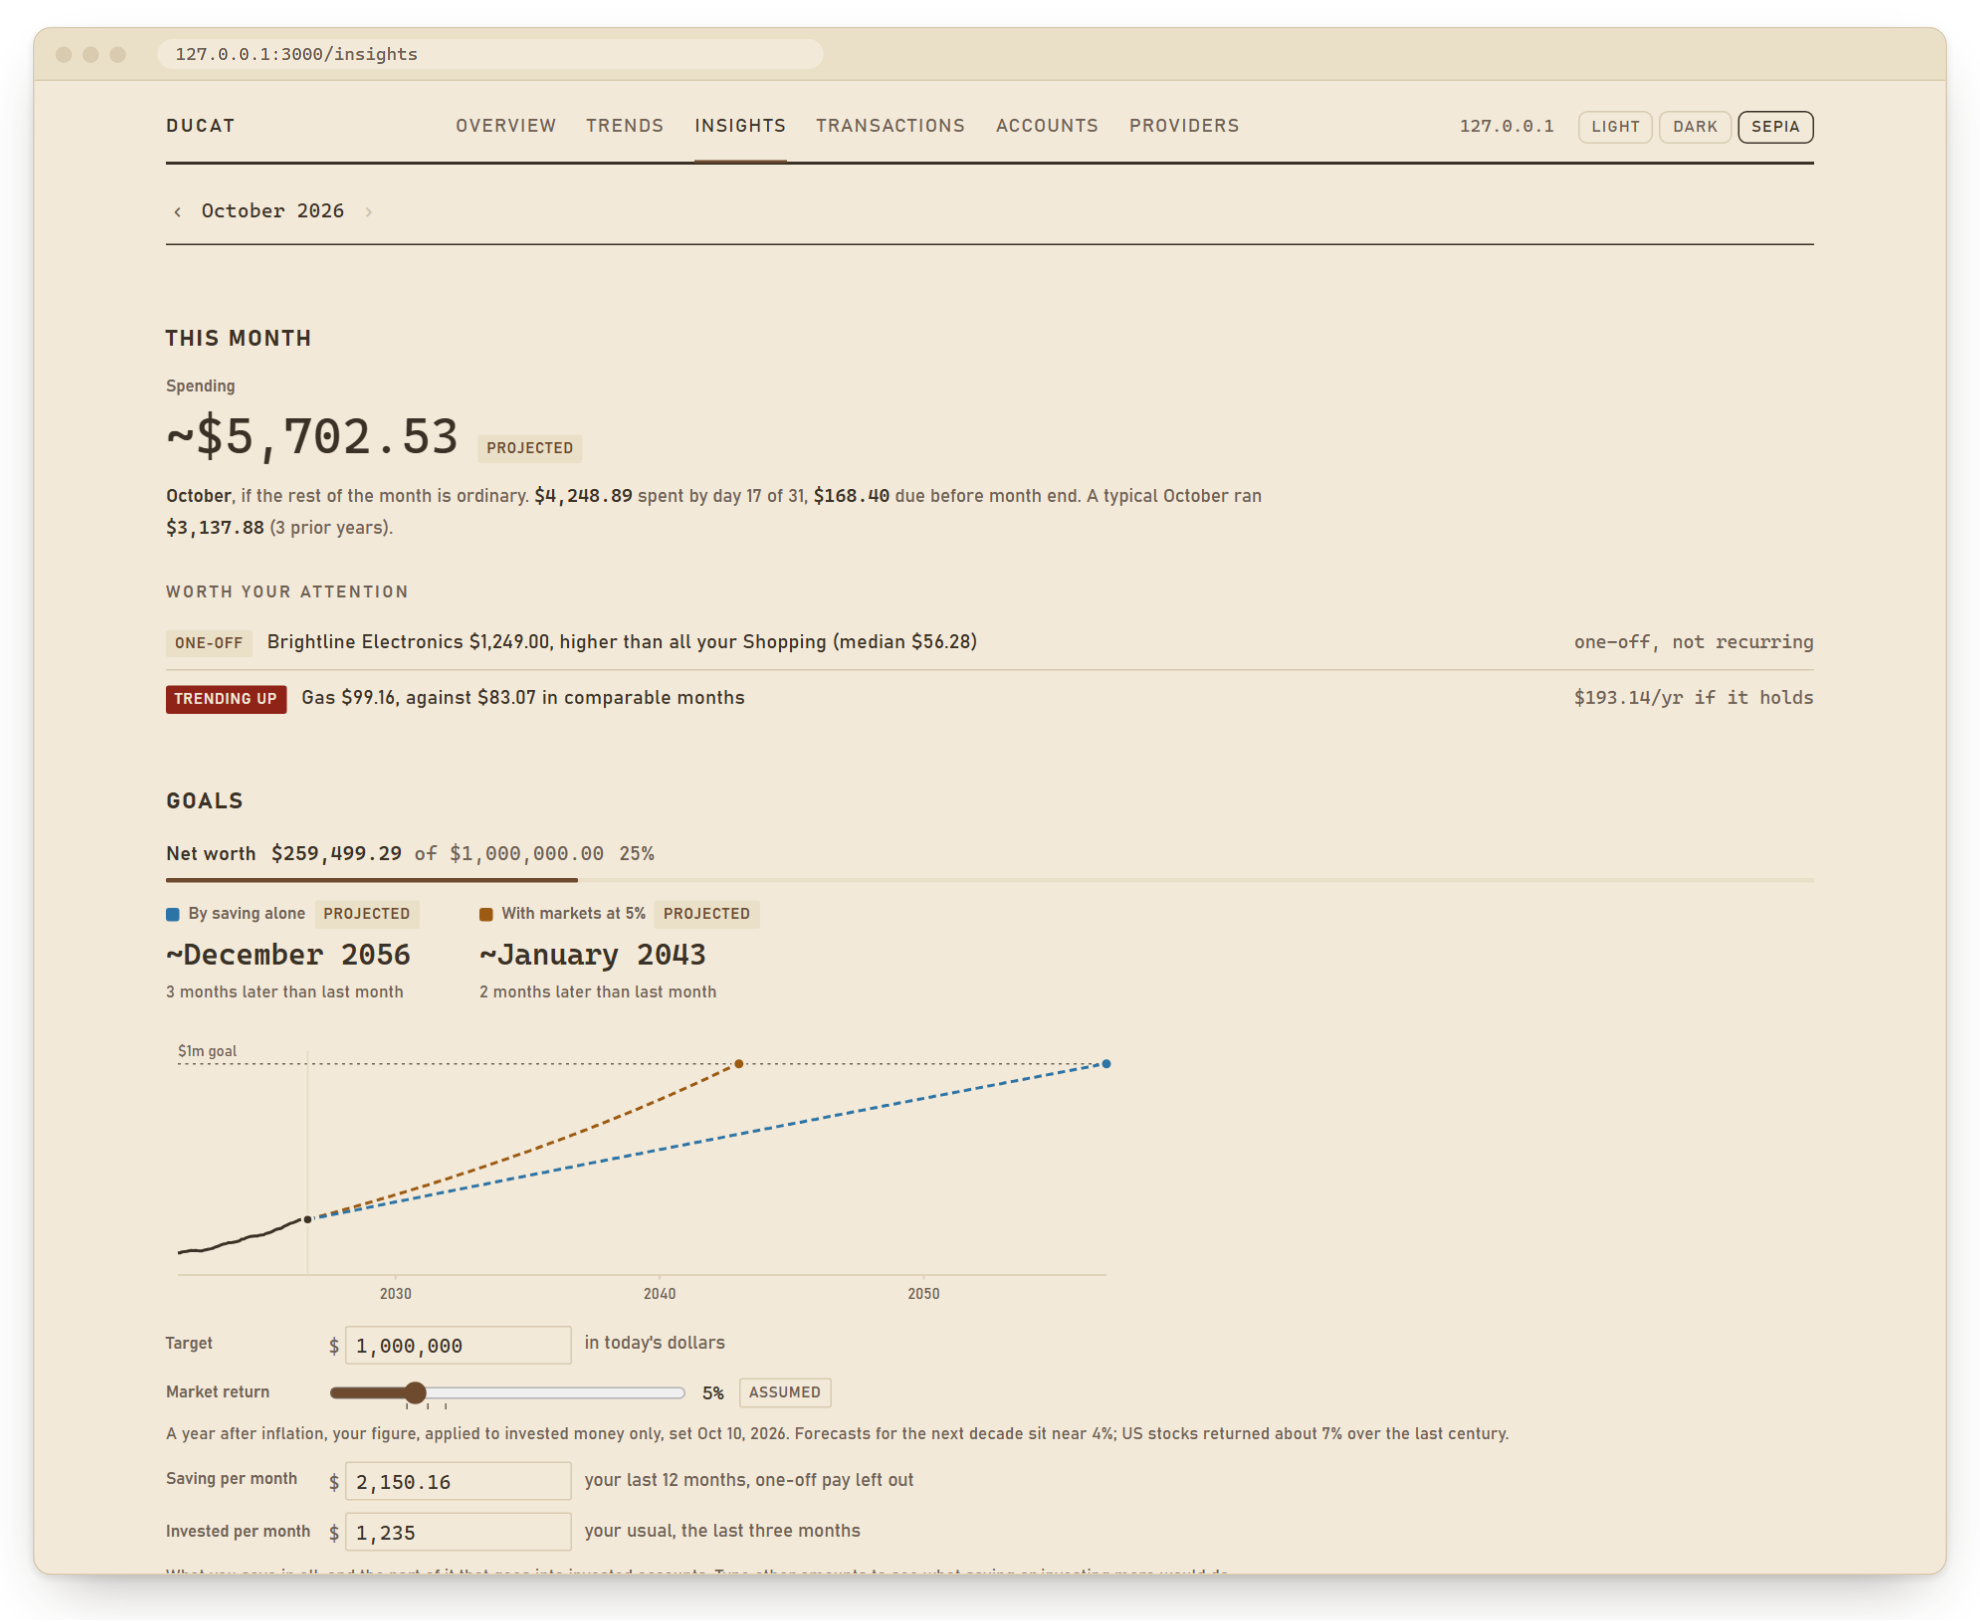
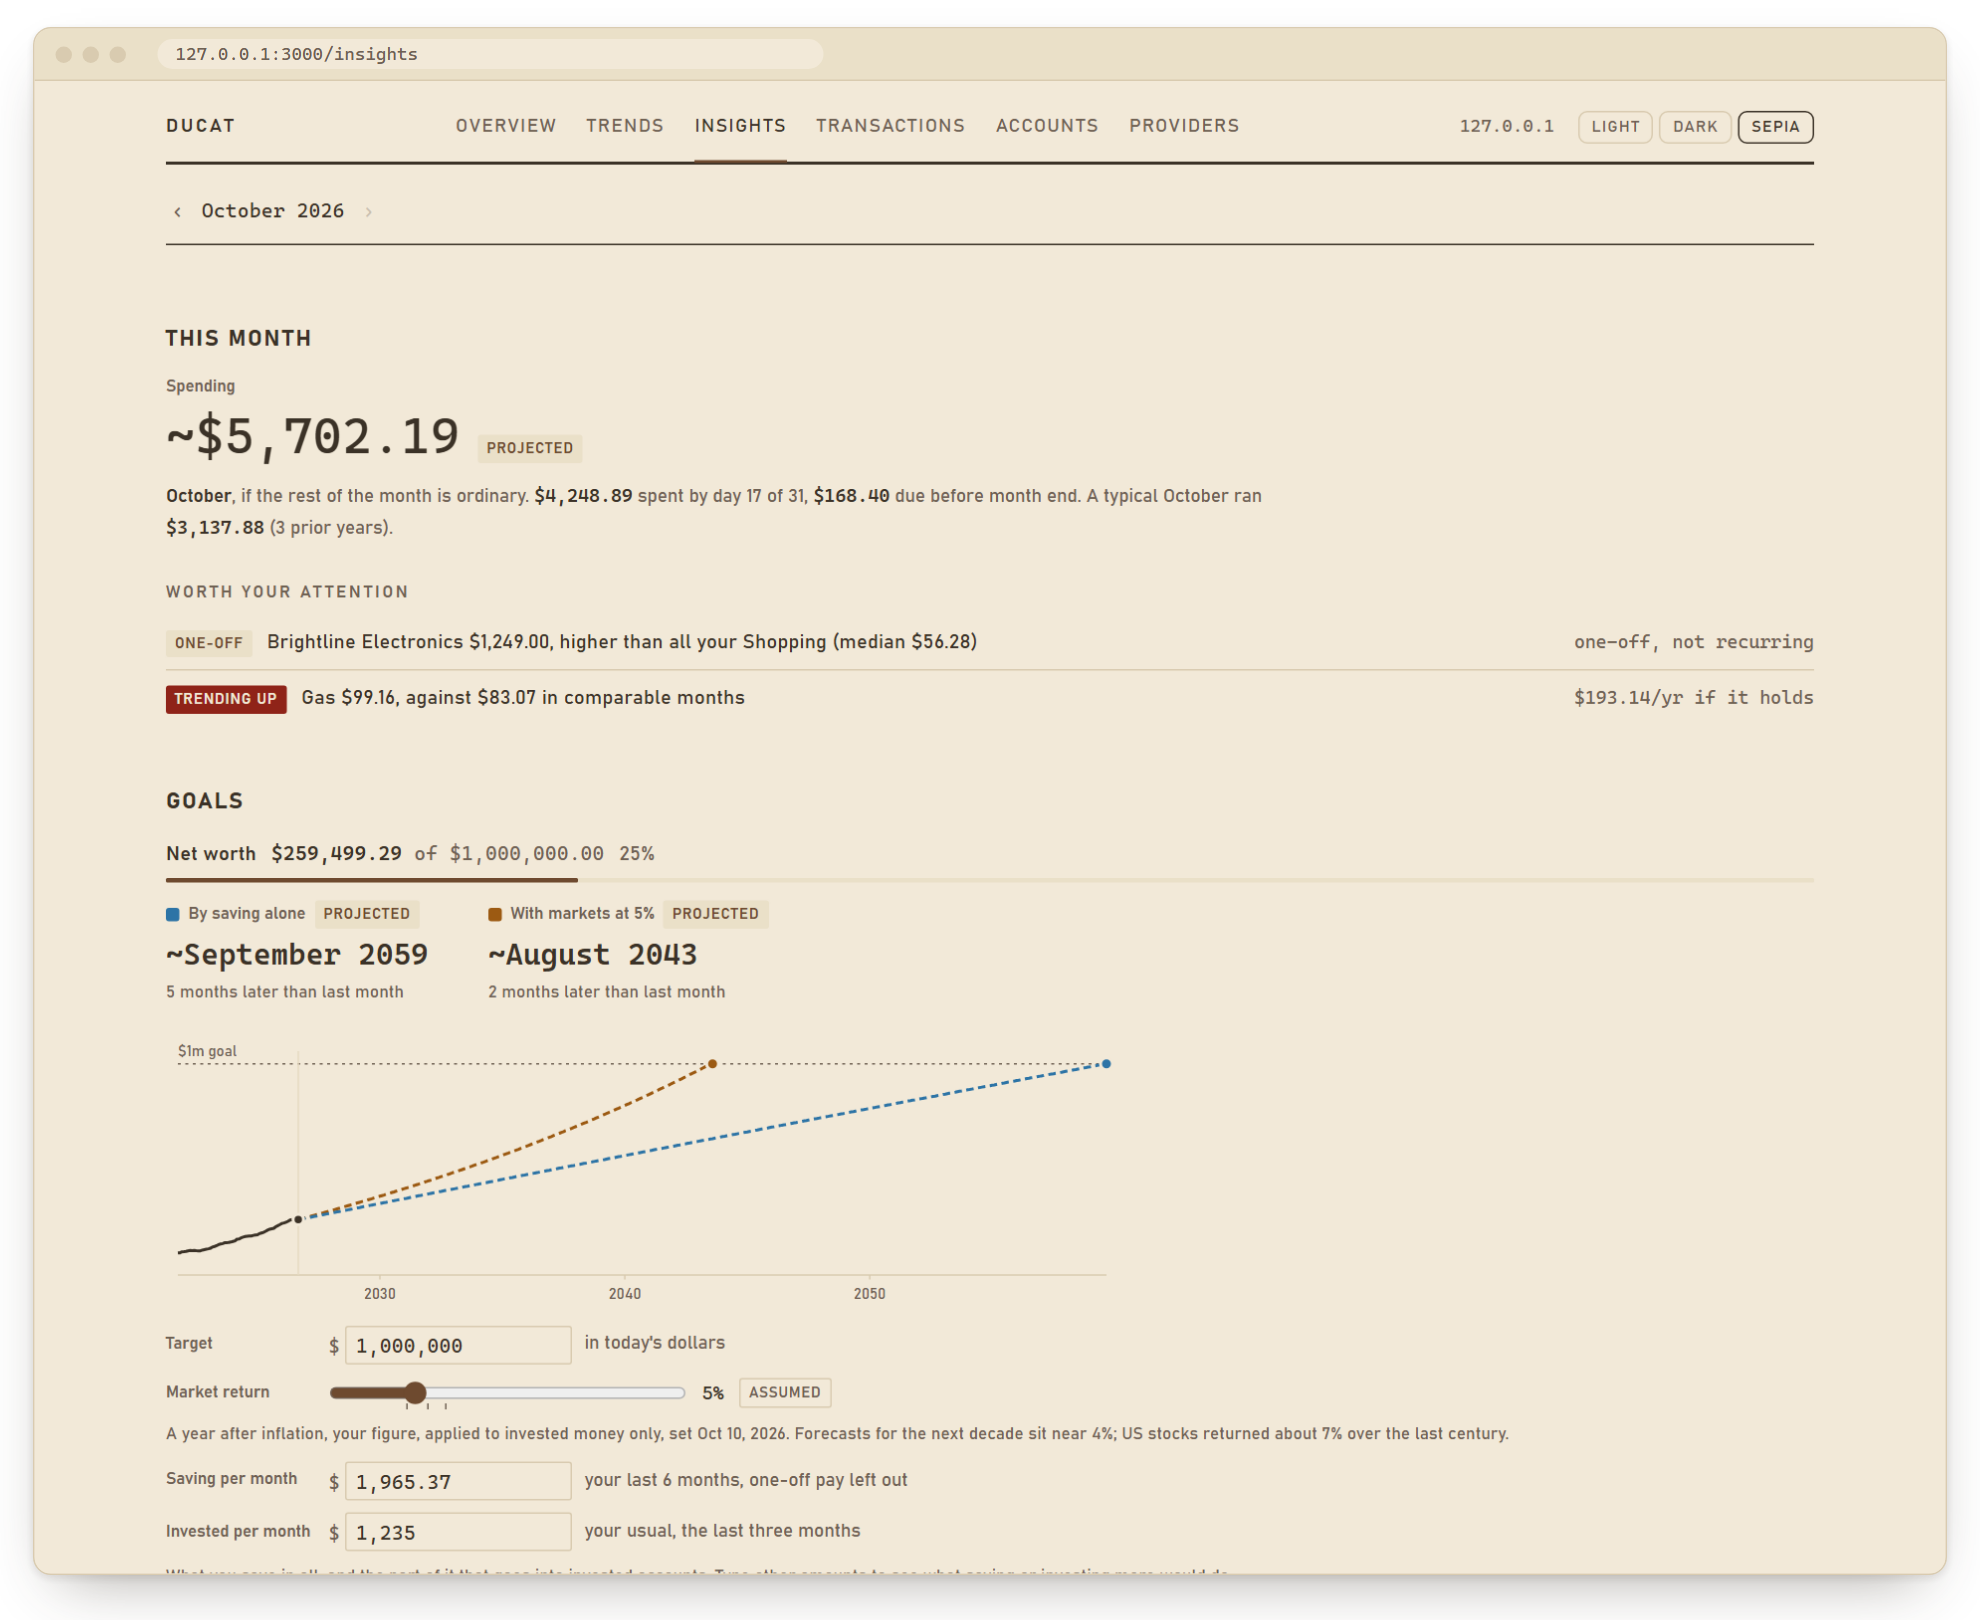
Measure the net worth saving pace over six months, not twelve
Twelve months were chosen so a bonus or a big bill moved the pace less.
With one-off pay now left out, that reason is gone, and twelve months only
reached back into older, cheaper months: pay before a raise, and card
spending not yet imported. The pace is six complete months, and four is
the least it projects from. The cash mix is weighted over the same window.

diff --git a/src/lib/ui/netWorthGoal.test.ts b/src/lib/ui/netWorthGoal.test.ts
@@ -3,6 +3,7 @@ import {
   addMonths,
   assessNetWorthGoal,
   NET_WORTH_PACE_MIN_MONTHS,
+  NET_WORTH_PACE_MONTHS,
   goalPath,
   idleCashAt,
   withCashMoved,
@@ -86,7 +87,7 @@ describe("assessNetWorthGoal", () => {
     const months = history({ count: 14, last: "2026-09", start: 80000, saved: 1000, markets: 500 });
     const g = assessNetWorthGoal({ goal: { target: 250000 }, liveNetWorth: 101000, months, investedIds });
     expect(g.pace).toBe(1000);
-    expect(g.paceMonths).toBe(12);
+    expect(g.paceMonths).toBe(NET_WORTH_PACE_MONTHS);
     expect(g.anchor).toBe("2026-09");
   });
 
@@ -169,21 +170,21 @@ describe("assessNetWorthGoal", () => {
     const months = history({ count: 15, last: "2026-09", start: 80000, saved: (i) => (i === 14 ? 7000 : 1000) });
     const g = assessNetWorthGoal({ goal: { target: 150000 }, liveNetWorth: 101000, months, investedIds });
     expect(g.previousPace).toBe(1000);
-    expect(g.pace).toBe(1500);
+    expect(g.pace).toBe(2000);
     expect(g.saving?.shift).toBeLessThan(0); // sooner
   });
 
   it("never measures the pace across a change in which accounts are counted", () => {
-    // The first five months leave an account out: an account entering the sum is not saving.
+    // The first nine months leave an account out: an account entering the sum is not saving.
     const months = history({
       count: 14,
       last: "2026-09",
       start: 80000,
       saved: 1000,
-      leftOut: (i) => (i < 5 ? ["late-card"] : []),
+      leftOut: (i) => (i < 9 ? ["late-card"] : []),
     });
     const g = assessNetWorthGoal({ goal: { target: 250000 }, liveNetWorth: 95000, months, investedIds });
-    expect(g.paceMonths).toBe(8);
+    expect(g.paceMonths).toBe(4);
   });
 
   it(`refuses a date with fewer than ${NET_WORTH_PACE_MIN_MONTHS} months behind it, and keeps the progress`, () => {
@@ -363,7 +364,7 @@ describe('one-off pay', () => {
   it('is left out of the pace, and named', () => {
     const counted = assessNetWorthGoal({ goal: { target: 300000 }, liveNetWorth: 94000, months, investedIds });
     const left = assessNetWorthGoal({ goal: { target: 300000 }, liveNetWorth: 94000, months, investedIds, oneOffs: bonuses });
-    expect(counted.pace).toBe(1500);
+    expect(counted.pace).toBe(2000);
     expect(left.pace).toBe(1000);
     expect(left.paceLeavesOut.map((o) => [o.amount, o.settled])).toEqual([
       [3000, true],

diff --git a/src/lib/ui/netWorthGoal.ts b/src/lib/ui/netWorthGoal.ts
@@ -57,7 +57,7 @@ import { growthBetween, type NetWorthPoint } from "./netWorthGrowth";
  * The pace leaves out ONE-OFF pay (a bonus beside a paycheck, judged by
  * insights/oneOffPay.ts and carried on the CASH_FLOW_TREND rows): real
  * money, but averaged in it reads one bonus month as a monthly habit: two
- * bonuses in a year raise a twelve-month pace by a twelfth of their total every
+ * bonuses in a six-month window raise its pace by a sixth of their total every
  * month. The panel names what it left out, and a bonus still too recent to
  * judge.
  *
@@ -83,9 +83,15 @@ import { growthBetween, type NetWorthPoint } from "./netWorthGrowth";
 
 export const NET_WORTH_GOAL_KEY = "goals.netWorth";
 
-/** A year of months smooths a bonus month and a big bill; half of one is the least to project from. */
-export const NET_WORTH_PACE_MONTHS = 12;
-export const NET_WORTH_PACE_MIN_MONTHS = 6;
+/**
+ * Six complete months: recent enough that this year's pay and spending set
+ * it, not last year's, and long enough to smooth a big bill. A year was the
+ * first window, chosen to smooth bonus months; with one-off pay left out
+ * (oneOffPay) it only dragged in older months, cheaper ones whose card
+ * spending had not been imported. Four is the least to project from.
+ */
+export const NET_WORTH_PACE_MONTHS = 6;
+export const NET_WORTH_PACE_MIN_MONTHS = 4;
 
 /** Beyond this a landing date is not worth printing: fifty years, as the savings goals say. */
 export const NET_WORTH_HORIZON_MONTHS = 600;

diff --git a/src/components/NetWorthGoalPanel.tsx b/src/components/NetWorthGoalPanel.tsx
@@ -11,6 +11,7 @@ import {
   keepingUp,
   NET_WORTH_HORIZON_MONTHS,
   NET_WORTH_PACE_MIN_MONTHS,
+  NET_WORTH_PACE_MONTHS,
   projectGoal,
   returnToSlider,
   SLIDER_STEPS,
@@ -166,7 +167,7 @@ function Shift({ p }: { p: Projection }) {
  * never what a control did.
  *
  * The two monthly figures start as the measured ones (the saving pace over
- * the last twelve months, the deposit as the middle of the last three) and
+ * the last six months, the deposit as the middle of the last three) and
  * follow the data while untouched; one typed in place holds until it is set
  * back, and typing the measured figure sets it back.
  *
@@ -431,7 +432,7 @@ export function NetWorthGoalPanel({ g }: { g: NetWorthGoalAssessment }) {
                 onCommit={commitPace}
               />
               {paceSet === null ? (
-                <span>your last 12 months, one-off pay left out</span>
+                <span>your last {NET_WORTH_PACE_MONTHS} months, one-off pay left out</span>
               ) : (
                 <>
                   <span className={ASSUMED_CHIP}>Assumed</span>

diff --git a/docs/conventions/goals-and-insights.md b/docs/conventions/goals-and-insights.md
@@ -171,7 +171,8 @@ contract: rule line in CLAUDE.md, evidence here, never both in one place.
   balance: a live anchor would move the date with every day's markets, and
   the shift since last month would compare a month-end with a Tuesday.
   Progress stays live, Overview's headline. The pace window is twelve
-  complete months (a bonus or a big bill moves six too far) and never crosses
+  complete months (a bonus or a big bill moves six too far; SIX since
+  2026-10-17, once one-off pay was left out, below) and never crosses
   a change in which accounts are counted, since an account entering the sum
   is not saving; under six months there is no date.
   A FAR target is sensitive to pace: saving a tenth faster brings a
@@ -510,3 +511,8 @@ contract: rule line in CLAUDE.md, evidence here, never both in one place.
   (3) Data: cards whose statements are not yet imported have no rows before
   the feed began, so older months in the window look cheaper than they
   were. That is an import to run, not code.
+  (4) The window, the same day, at the operator's ask: SIX complete months,
+  not twelve, and four the least to project from. Twelve was chosen so a
+  bonus or a big bill moved the pace less (the entry above); with one-off
+  pay left out that reason is gone, and twelve only reached back into
+  older, cheaper months, pay before a raise and spending not yet imported.

diff --git a/.claude/rules/goals-and-insights.md b/.claude/rules/goals-and-insights.md
@@ -46,7 +46,8 @@ anything below; several entries record "tried and failed, don't retry".
   rise otherwise reads as a trend all the year after it.
 - The NET WORTH goal (ui/netWorthGoal.ts, Setting goals.netWorth) prints
   TWO dates and never one blended rate: by saving alone (the /trends "saved"
-  pace over 12 complete months, never across a change in counted accounts)
+  pace over 6 complete months, one-off pay left out, never across a change
+  in counted accounts)
   and with markets (a real return the operator SETS, applied to invested
   money outside the cash definition and to the monthly deposit into it, the
   MIDDLE of the last three months: never a mean, a fixed cutoff or a long
